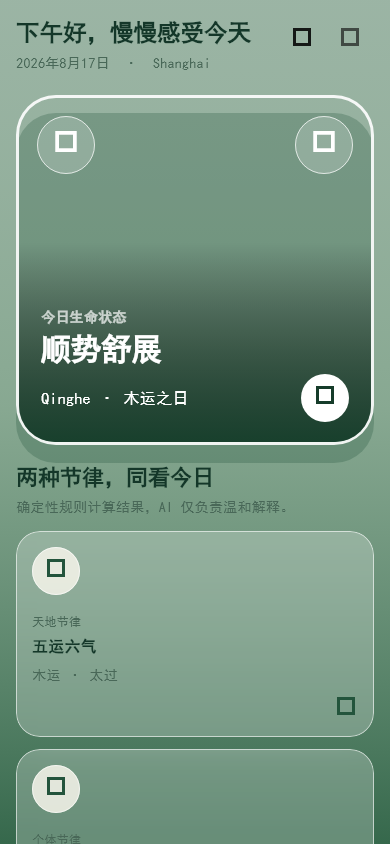
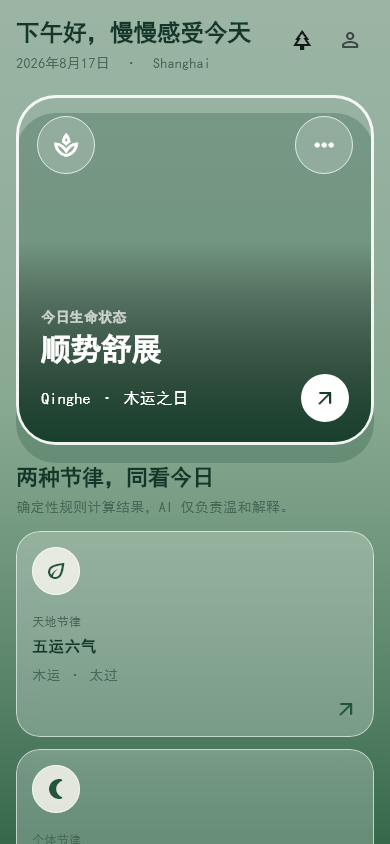
test: cover accessible and offline home states

diff --git a/frontend/test/forest_home_visual_test.dart b/frontend/test/forest_home_visual_test.dart
@@ -46,19 +46,54 @@ class _ReviewProfileApiClient extends ProfileApiClient {
   Future<int> getViewingStreak(DateTime throughDate) async => 6;
 }
 
+class _EmptyProfileApiClient extends ProfileApiClient {
+  _EmptyProfileApiClient() : super(baseUrl: 'http://visual-review.invalid');
+
+  @override
+  Future<List<LifeProfile>> listProfiles() async => <LifeProfile>[];
+
+  @override
+  Future<int> getViewingStreak(DateTime throughDate) async => 0;
+}
+
+class _ErrorProfileApiClient extends ProfileApiClient {
+  _ErrorProfileApiClient() : super(baseUrl: 'http://visual-review.invalid');
+
+  @override
+  Future<List<LifeProfile>> listProfiles() async {
+    throw const ProfileApiException('网络暂不可用，已保留你的本地设置。');
+  }
+}
+
 void main() {
+  Future<void> loadReviewFonts() async {
+    Future<void> loadFont(String family, String path) async {
+      final Uint8List bytes = File(path).readAsBytesSync();
+      await (FontLoader(family)
+            ..addFont(Future<ByteData>.value(ByteData.sublistView(bytes))))
+          .load();
+    }
+
+    await loadFont('ReviewChinese', r'C:\Windows\Fonts\simhei.ttf');
+    final String flutterRoot =
+        Platform.environment['FLUTTER_ROOT'] ?? r'D:\flutter';
+    await loadFont(
+      'MaterialIcons',
+      '$flutterRoot/bin/cache/artifacts/material_fonts/MaterialIcons-Regular.otf',
+    );
+  }
+
   Future<void> renderHome(
     WidgetTester tester, {
     required LifeThemeMode mode,
-    required String goldenPath,
+    String? goldenPath,
+    Size size = const Size(390, 844),
+    double textScale = 1,
+    ProfileApiClient? apiClient,
   }) async {
-    final Uint8List fontBytes =
-        File(r'C:\Windows\Fonts\simhei.ttf').readAsBytesSync();
-    final FontLoader fontLoader = FontLoader('ReviewChinese')
-      ..addFont(Future<ByteData>.value(ByteData.sublistView(fontBytes)));
-    await fontLoader.load();
+    await loadReviewFonts();
 
-    tester.view.physicalSize = const Size(390, 844);
+    tester.view.physicalSize = size;
     tester.view.devicePixelRatio = 1;
     addTearDown(tester.view.resetPhysicalSize);
     addTearDown(tester.view.resetDevicePixelRatio);
@@ -71,24 +106,42 @@ void main() {
           textTheme: reviewTheme.textTheme.apply(fontFamily: 'ReviewChinese'),
           primaryTextTheme:
               reviewTheme.primaryTextTheme.apply(fontFamily: 'ReviewChinese'),
+          filledButtonTheme: FilledButtonThemeData(
+            style: reviewTheme.filledButtonTheme.style?.copyWith(
+              textStyle: WidgetStatePropertyAll<TextStyle?>(
+                reviewTheme.textTheme.labelLarge
+                    ?.copyWith(fontFamily: 'ReviewChinese'),
+              ),
+            ),
+          ),
         ),
+        builder: (BuildContext context, Widget? child) {
+          final MediaQueryData data = MediaQuery.of(context);
+          return MediaQuery(
+            data: data.copyWith(textScaler: TextScaler.linear(textScale)),
+            child: child!,
+          );
+        },
         home: RepaintBoundary(
           key: const Key('life-home-review'),
           child: TodayDashboardPage(
-            apiClient: _ReviewProfileApiClient(),
+            apiClient: apiClient ?? _ReviewProfileApiClient(),
             accountPageBuilder: () => const SizedBox.shrink(),
             themeMode: mode,
             onThemeChanged: (_) {},
+            now: DateTime(2026, 8, 17, 15),
           ),
         ),
       ),
     );
     await tester.pumpAndSettle();
 
-    await expectLater(
-      find.byKey(const Key('life-home-review')),
-      matchesGoldenFile(goldenPath),
-    );
+    if (goldenPath != null) {
+      await expectLater(
+        find.byKey(const Key('life-home-review')),
+        matchesGoldenFile(goldenPath),
+      );
+    }
   }
 
   testWidgets('Forest mobile home visual review', (WidgetTester tester) async {
@@ -106,5 +159,55 @@ void main() {
       mode: LifeThemeMode.obsidian,
       goldenPath: '../../docs/ui/review/obsidian-home-mobile-v3.png',
     );
+  });
+
+  testWidgets('narrow Forest home remains usable with enlarged text',
+      (WidgetTester tester) async {
+    await renderHome(
+      tester,
+      mode: LifeThemeMode.forest,
+      size: const Size(320, 700),
+      textScale: 1.3,
+      goldenPath:
+          '../../docs/ui/review/forest-home-narrow-large-text-v3.png',
+    );
+
+    expect(find.text('五运六气'), findsOneWidget);
+    expect(find.text('星辰节律'), findsOneWidget);
+    await tester.scrollUntilVisible(
+      find.text('今日温和建议'),
+      500,
+      scrollable: find.byType(Scrollable).first,
+    );
+    expect(find.text('今日温和建议'), findsOneWidget);
+    expect(tester.takeException(), isNull);
+  });
+
+  testWidgets('empty profile state preserves Forest visual hierarchy',
+      (WidgetTester tester) async {
+    await renderHome(
+      tester,
+      mode: LifeThemeMode.forest,
+      apiClient: _EmptyProfileApiClient(),
+    );
+
+    expect(find.text('从一份生命档案开始'), findsOneWidget);
+    expect(find.text('建立生命档案'), findsOneWidget);
+    expect(tester.takeException(), isNull);
+  });
+
+  testWidgets('offline state is explicit and recoverable in Obsidian',
+      (WidgetTester tester) async {
+    await renderHome(
+      tester,
+      mode: LifeThemeMode.obsidian,
+      apiClient: _ErrorProfileApiClient(),
+      goldenPath: '../../docs/ui/review/obsidian-home-offline-v3.png',
+    );
+
+    expect(find.text('暂时未能连接今日节律'), findsOneWidget);
+    expect(find.text('网络暂不可用，已保留你的本地设置。'), findsOneWidget);
+    expect(find.text('重新加载'), findsOneWidget);
+    expect(tester.takeException(), isNull);
   });
 }

diff --git a/frontend/lib/features/profile/presentation/today_dashboard_page.dart b/frontend/lib/features/profile/presentation/today_dashboard_page.dart
@@ -16,6 +16,7 @@ class TodayDashboardPage extends StatefulWidget {
     required this.accountPageBuilder,
     required this.themeMode,
     required this.onThemeChanged,
+    this.now,
     super.key,
   });
 
@@ -23,6 +24,7 @@ class TodayDashboardPage extends StatefulWidget {
   final Widget Function() accountPageBuilder;
   final LifeThemeMode themeMode;
   final ValueChanged<LifeThemeMode> onThemeChanged;
+  final DateTime? now;
 
   @override
   State<TodayDashboardPage> createState() => _TodayDashboardPageState();
@@ -32,6 +34,8 @@ class _TodayDashboardPageState extends State<TodayDashboardPage> {
   List<LifeProfile>? _profiles;
   String? _error;
   int _viewingStreak = 0;
+
+  DateTime get _now => widget.now ?? DateTime.now();
 
   LifeProfile? get _defaultProfile {
     final profiles = _profiles;
@@ -50,7 +54,7 @@ class _TodayDashboardPageState extends State<TodayDashboardPage> {
     setState(() => _error = null);
     try {
       final profiles = await widget.apiClient.listProfiles();
-      final streak = await widget.apiClient.getViewingStreak(DateTime.now());
+      final streak = await widget.apiClient.getViewingStreak(_now);
       if (mounted) {
         setState(() {
           _profiles = profiles;
@@ -243,14 +247,14 @@ class _TodayDashboardPageState extends State<TodayDashboardPage> {
   }
 
   String _greeting() {
-    final hour = DateTime.now().hour;
+    final hour = _now.hour;
     if (hour < 11) return '早上好';
     if (hour < 18) return '下午好';
     return '晚上好';
   }
 
   String _today() {
-    final now = DateTime.now();
+    final now = _now;
     return '${now.year}年${now.month}月${now.day}日';
   }
 }
